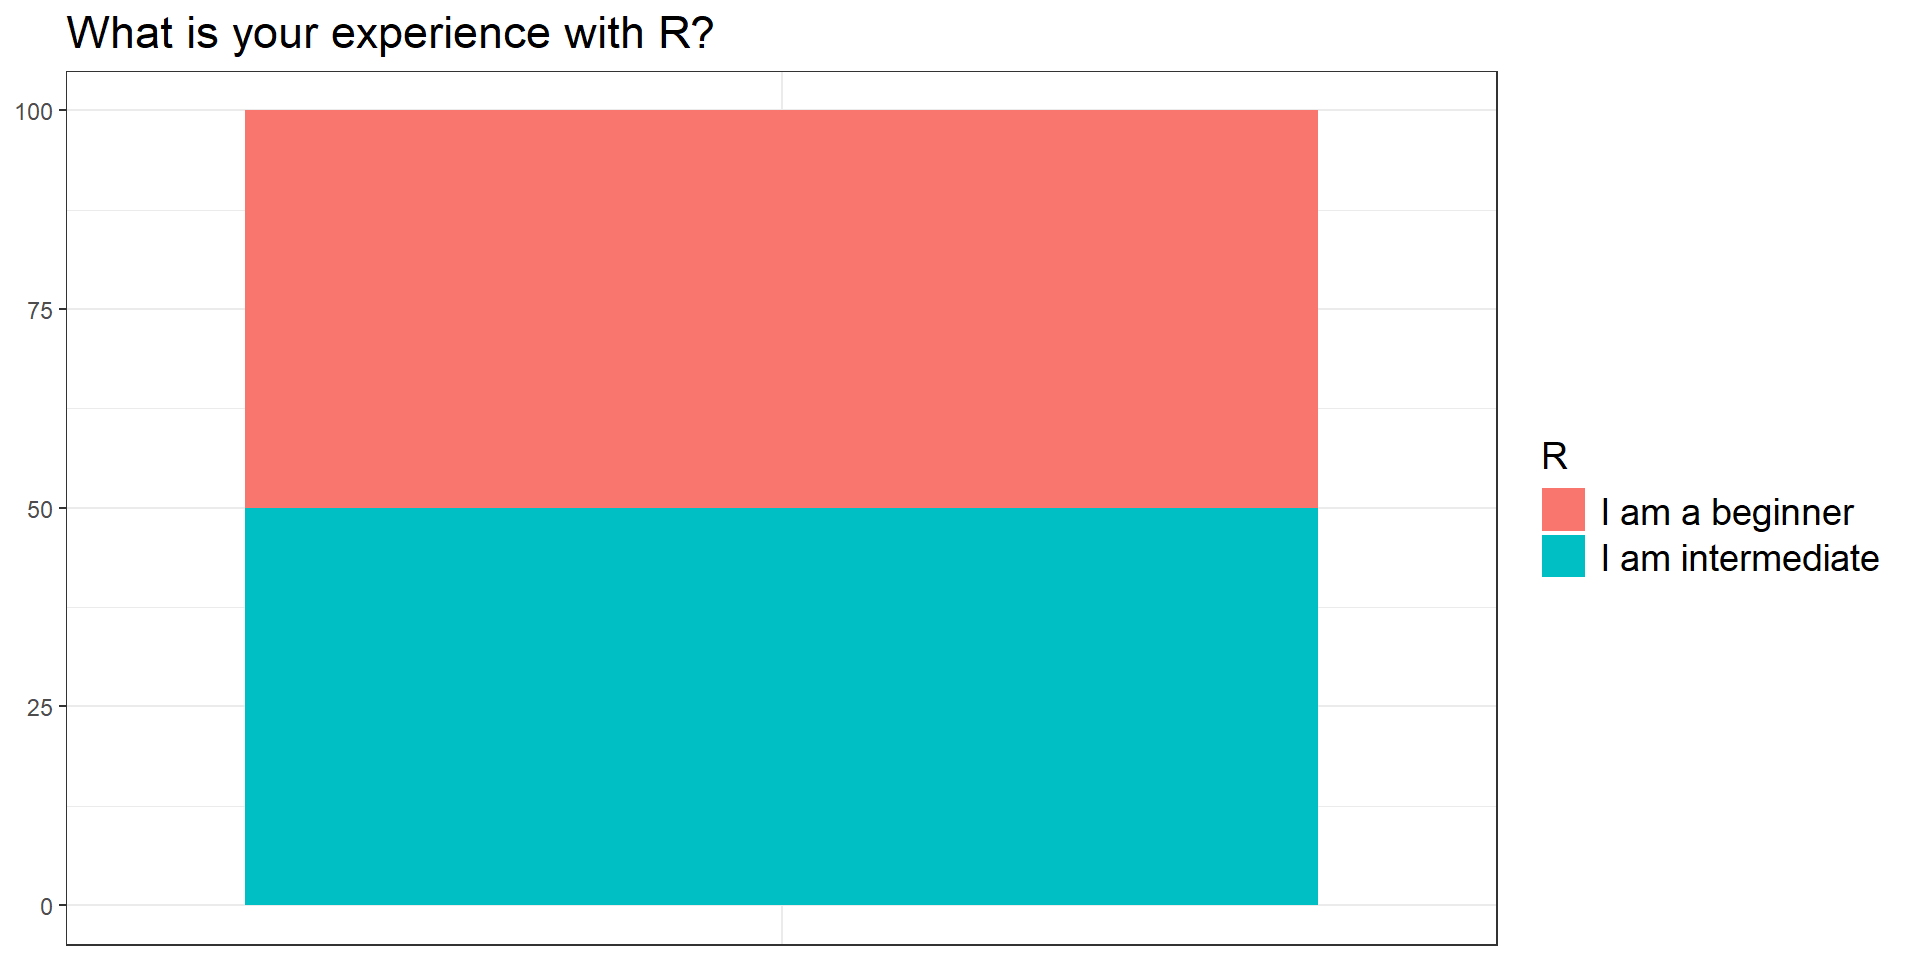
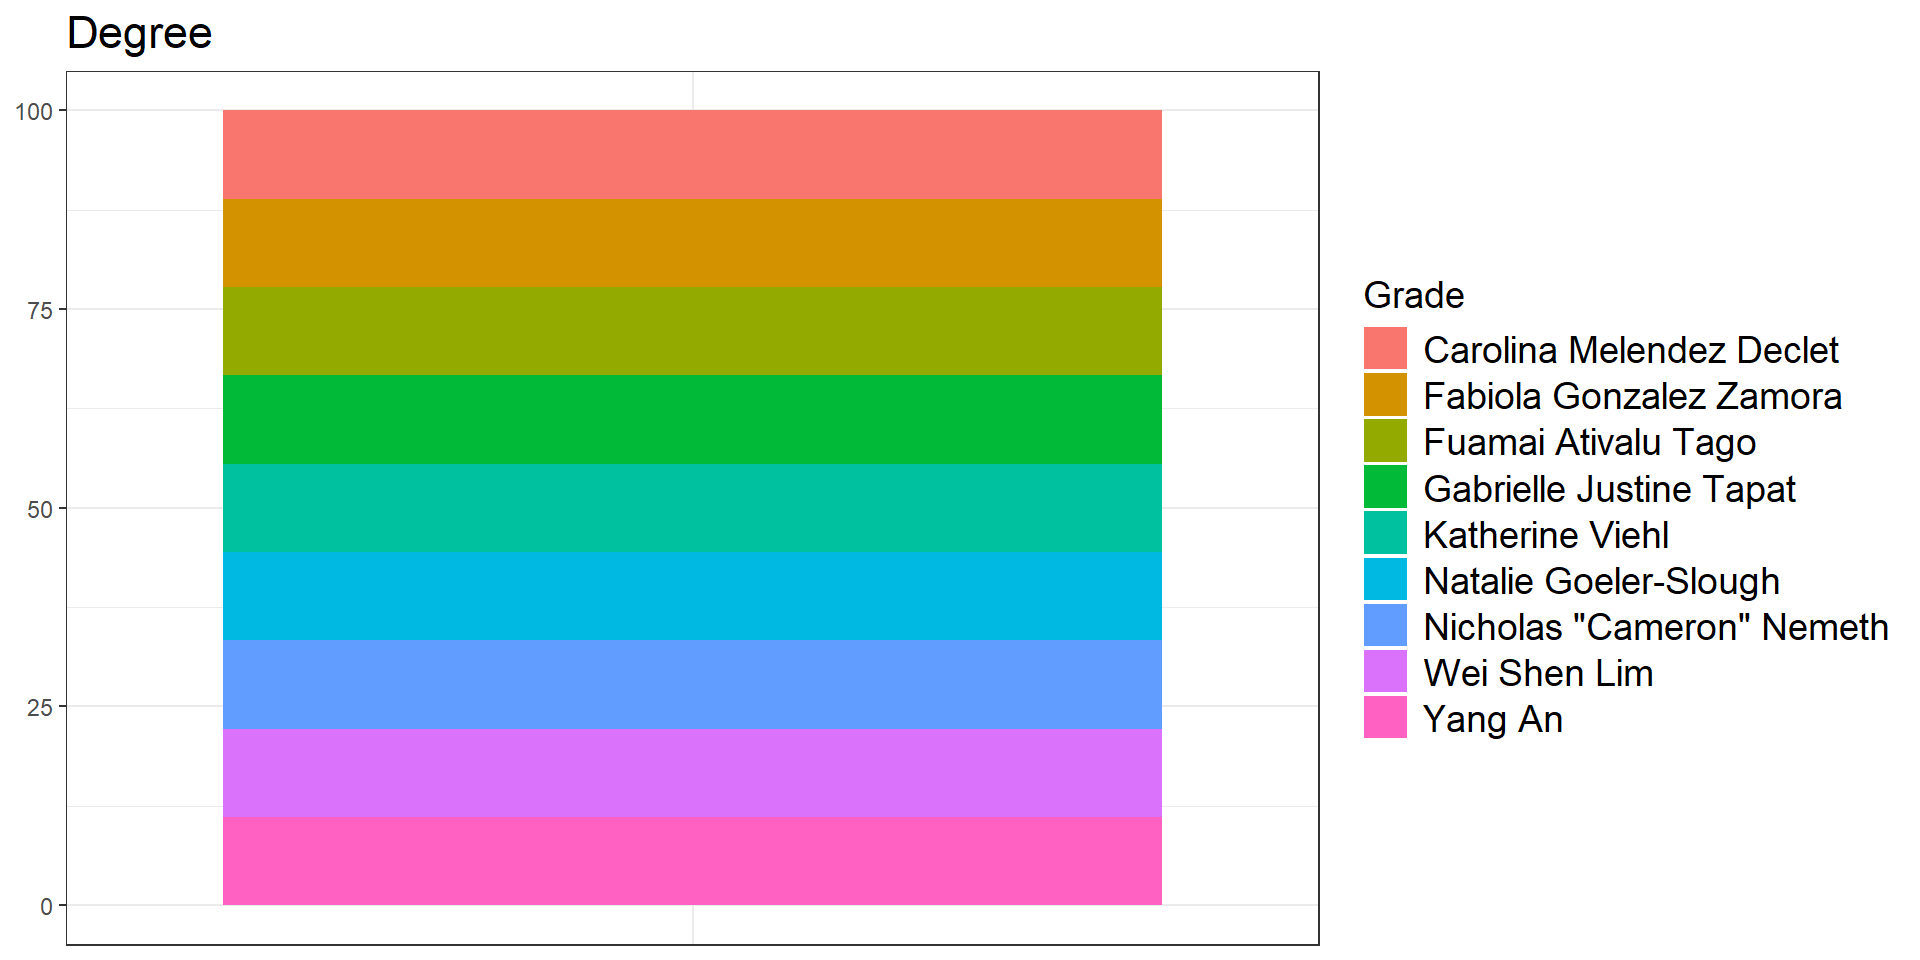
updated survey

diff --git a/Week_01/1_What_is_Data.html b/Week_01/1_What_is_Data.html
@@ -10,7 +10,7 @@
   <meta name="generator" content="quarto-1.9.38">
 
   <meta name="author" content="Dr.&nbsp;Nyssa Silbiger">
-  <meta name="dcterms.date" content="2026-08-21">
+  <meta name="dcterms.date" content="2026-08-23">
   <title>Computer Modeling (OCN 682)</title>
   <meta name="apple-mobile-web-app-capable" content="yes">
   <meta name="apple-mobile-web-app-status-bar-style" content="black-translucent">
@@ -211,7 +211,7 @@ Dr.&nbsp;Nyssa Silbiger
     </div>
 </div>
 
-  <p class="date">2026-08-21</p>
+  <p class="date">2026-08-23</p>
 </section>
 <section id="welcome-to-data-science-fundamentals-in-r" class="slide level2 inverse center middle">
 <h2>Welcome to Data Science Fundamentals in R</h2>
@@ -311,11 +311,7 @@ Dr.&nbsp;Nyssa Silbiger
 <section id="what-is-your-experience" class="slide level2">
 <h2>What is your experience?</h2>
 
-<img data-src="1_What_is_Data_files/figure-revealjs/experience-plots-1.png" width="960" class="r-stretch"></section>
-<section id="what-is-your-experience-1" class="slide level2">
-<h2>What is your experience?</h2>
-
-<img data-src="1_What_is_Data_files/figure-revealjs/git-plot-1.png" width="960" class="r-stretch"></section>
+<img data-src="1_What_is_Data_files/figure-revealjs/experience-combined-1.png" width="1344" class="r-stretch"></section>
 <section id="what-do-you-want-to-learn" class="slide level2">
 <h2>What do you want to learn?</h2>
 
